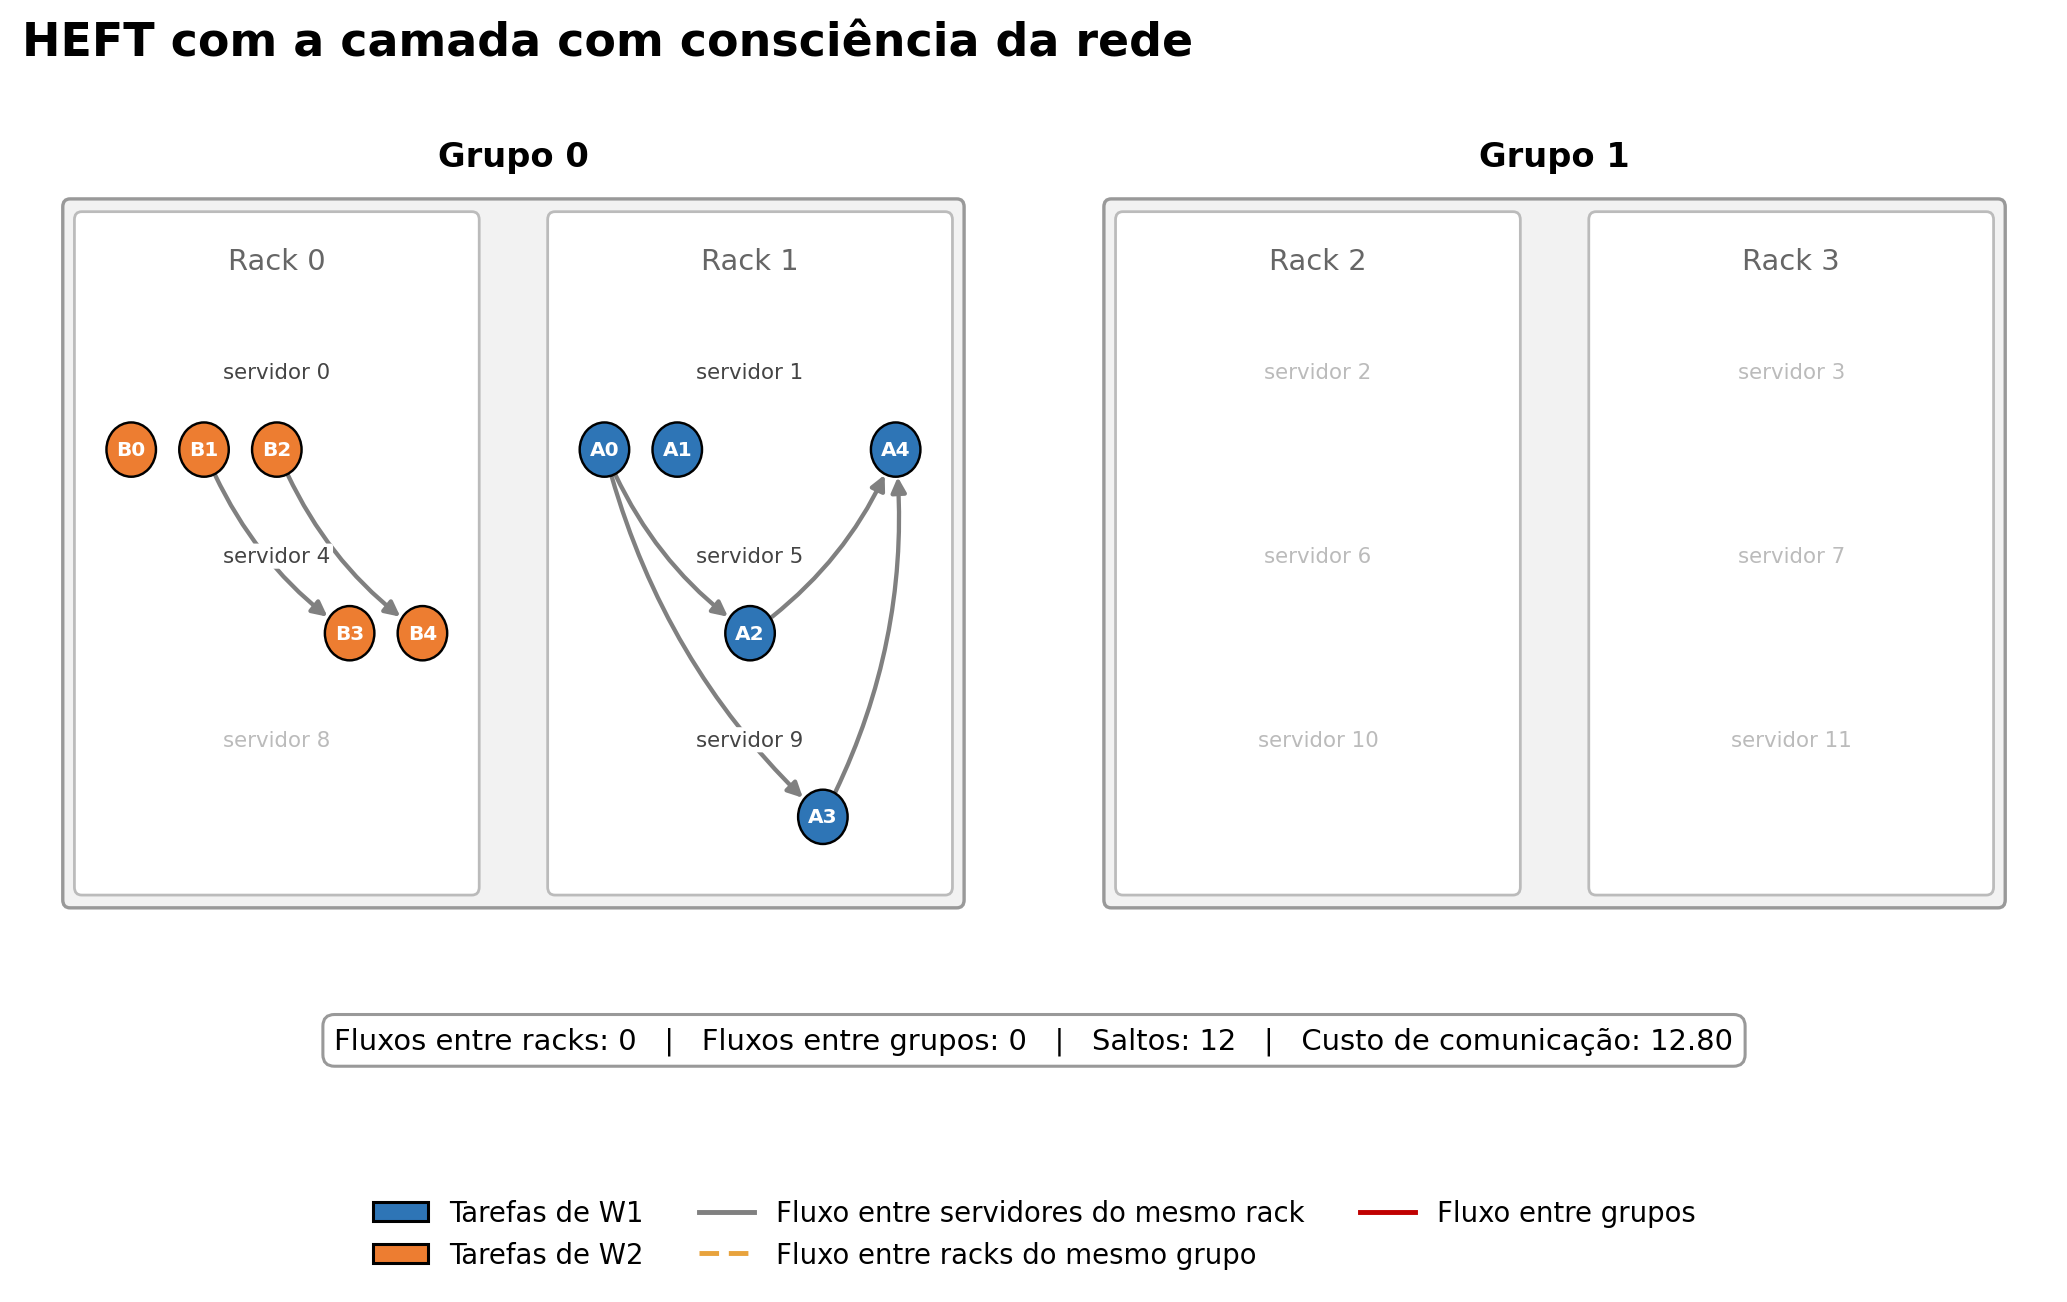
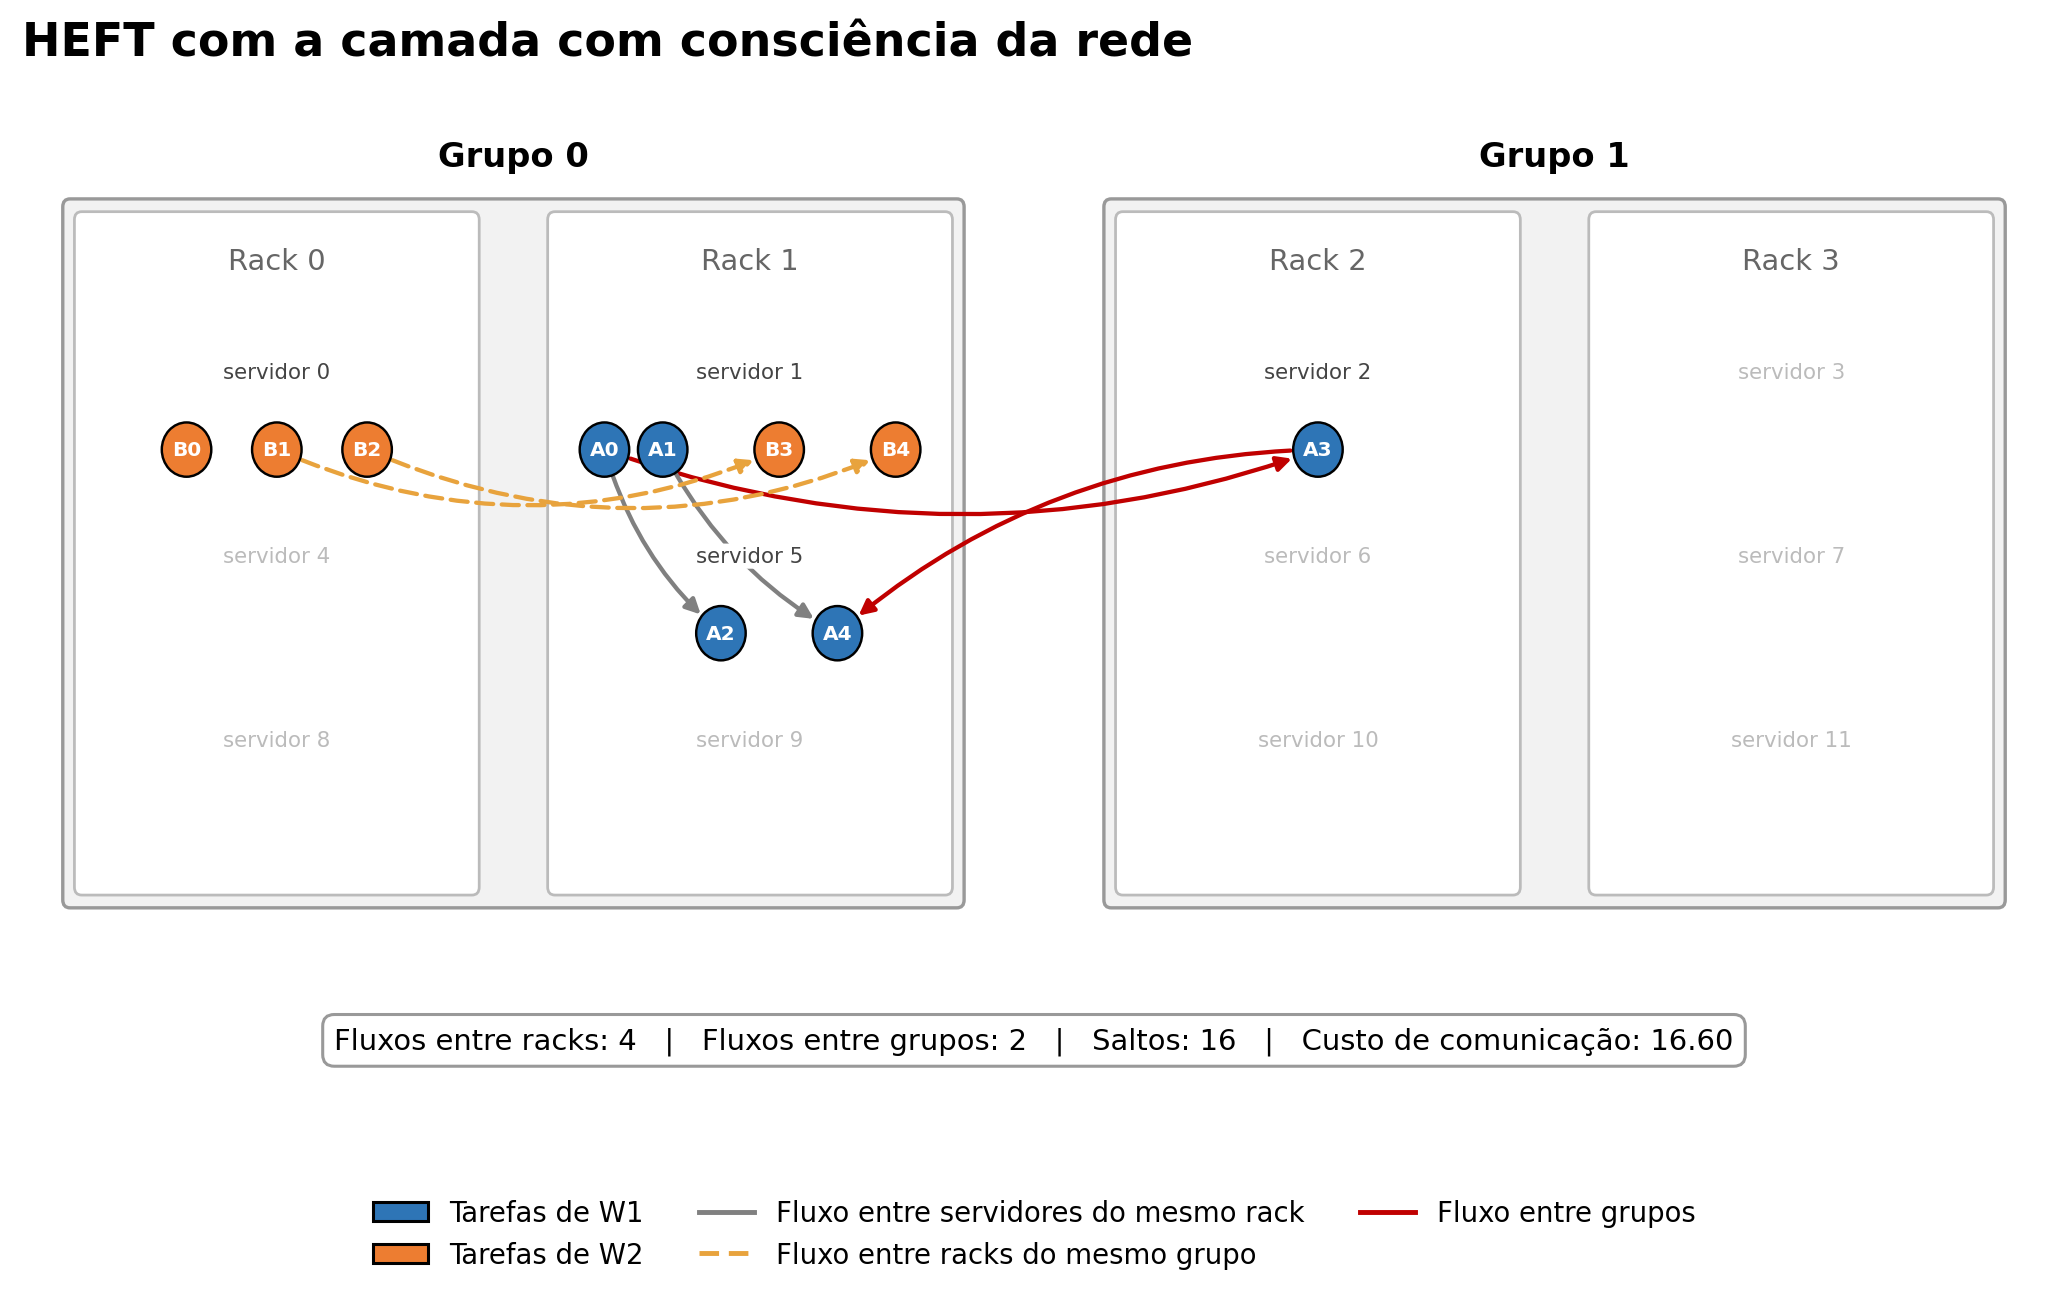
add

diff --git a/plot_placement_topology.py b/plot_placement_topology.py
@@ -176,20 +176,133 @@ def flow_classification(origem, destino):
 
 
 # ------------------------------------------------------------------
-# 5) Escalonamento por lista (ready-queue) genérico
+# 5) Pontuação network-aware = a fórmula REAL de
+#    scheduler_fifo/network_aware.py (choose_server_network_aware),
+#    não a versão simplificada da Equação 1 do artigo. Parâmetros do
+#    cenário "01_balanced" (scheduler_fifo/main.py -> SCENARIOS):
+#      network_weight = 1.0
+#      metric_weights = cross_server=cross_rack=cross_group=comm_cost=0.25
 #
-# A camada network-aware NUNCA aceita um servidor com EFT pior do que
-# o melhor EFT disponível para a tarefa (tolerância ~0): o custo de
-# rede só desempata entre candidatos igualmente bons em tempo de
-# término. Isso reproduz o comportamento medido nos experimentos reais
-# do projeto (o makespan não muda com a camada de rede) e evita que o
-# exemplo ilustrativo sacrifique paralelismo/tempo por localidade —
-# o que aconteceria se custo de rede fosse somado livremente ao EFT.
+#    combined_score = fifo_score + network_weight*(network_score + B_hist)
+#    - fifo_score: posição do servidor na ordenação numérica (proxy do
+#      "base_order" da política base), normalizada por len(SERVERS).
+#    - network_score: soma ponderada das 4 métricas de tráfego,
+#      normalizadas por min-max entre os candidatos (como
+#      normalizar_metricas_candidatos).
+#    - B_hist: mesma regra da Equação~3 do artigo, usando a EXECUÇÃO
+#      BASELINE deste exemplo como histórico da execução network-aware
+#      (mesmo protocolo do Algoritmo 1: primeiro roda a política base,
+#      depois a network-aware consome esse traço).
+# ------------------------------------------------------------------
+METRIC_WEIGHTS = {"cross_server": 0.25, "cross_rack": 0.25, "cross_group": 0.25, "comm_cost": 0.25}
+NETWORK_WEIGHT = 1.0
+
+FIFO_ORDER = sorted(SERVERS)
+FIFO_POS = {s: i for i, s in enumerate(FIFO_ORDER)}
+FIFO_SIZE = len(FIFO_ORDER)
+
+
+def compute_task_metrics(dag_id, t, candidate_server, placement):
+    cross_server = cross_rack = cross_group = 0
+    comm_cost = 0.0
+    for p in preds(dag_id, t):
+        p_server = placement[(dag_id, p)]
+        cs, cr, cg = flow_classification(p_server, candidate_server)
+        cross_server += int(cs)
+        cross_rack += int(cr)
+        cross_group += int(cg)
+        comm_cost += hops_between(p_server, candidate_server) * edge_bytes(dag_id, p, t)
+    return {
+        "cross_server_flows": cross_server,
+        "cross_rack_flows": cross_rack,
+        "cross_group_flows": cross_group,
+        "estimated_comm_cost": comm_cost,
+    }
+
+
+def normalize_candidate_metrics(metrics_by_server):
+    fields = ["cross_server_flows", "cross_rack_flows", "cross_group_flows", "estimated_comm_cost"]
+    normalized = {s: {} for s in metrics_by_server}
+    for field in fields:
+        values = [metrics_by_server[s][field] for s in metrics_by_server]
+        lo, hi = min(values), max(values)
+        for s in metrics_by_server:
+            raw = metrics_by_server[s][field]
+            normalized[s][field] = 0.0 if hi == lo else (raw - lo) / (hi - lo)
+    return normalized
+
+
+def network_score(norm):
+    return (
+        norm["cross_server_flows"] * METRIC_WEIGHTS["cross_server"]
+        + norm["cross_rack_flows"] * METRIC_WEIGHTS["cross_rack"]
+        + norm["cross_group_flows"] * METRIC_WEIGHTS["cross_group"]
+        + norm["estimated_comm_cost"] * METRIC_WEIGHTS["comm_cost"]
+    )
+
+
+def build_history_from_execution(reference_placement):
+    """Histórico consumido pela execução network-aware, construído a
+    partir da execução baseline deste mesmo exemplo (Equação 3 / B_hist)."""
+    history = {}
+    for dag_id, t in ALL_TASKS:
+        p_list = preds(dag_id, t)
+        if not p_list:
+            continue
+        server = reference_placement[(dag_id, t)]
+        cross_rack = cross_group = 0
+        for p in p_list:
+            p_server = reference_placement[(dag_id, p)]
+            _, cr, cg = flow_classification(p_server, server)
+            cross_rack += int(cr)
+            cross_group += int(cg)
+        history[(dag_id, t)] = {
+            "predecessor_count": len(p_list),
+            "best_rack": RACK_OF[server],
+            "best_group": GROUP_OF[server],
+            "prev_cross_rack_flows": cross_rack,
+            "prev_cross_group_flows": cross_group,
+        }
+    return history
+
+
+def history_bonus_for(dag_id, t, candidate_server, history):
+    info = history.get((dag_id, t)) if history else None
+    if not info or info["predecessor_count"] == 0:
+        return 0.0
+
+    bonus = 0.0
+    cand_rack = RACK_OF[candidate_server]
+    cand_group = GROUP_OF[candidate_server]
+
+    if cand_group == info["best_group"]:
+        bonus -= 0.20
+        if cand_rack == info["best_rack"]:
+            bonus -= 0.10
+
+    if (info["prev_cross_rack_flows"] == 0 and info["prev_cross_group_flows"] == 0
+            and cand_group != info["best_group"]):
+        bonus += 0.25
+
+    return bonus
+
+
+# ------------------------------------------------------------------
+# 6) Escalonamento por lista (ready-queue) genérico
+#
+# A camada network-aware só escolhe entre os servidores que dão o
+# melhor EFT possível para a tarefa (tolerância ~0). O código real
+# (discrete-event, scheduler_fifo/network_aware.py) só decide entre
+# servidores JÁ ociosos no instante da decisão, então a rede nunca
+# "compra" tempo de espera; como este exemplo faz uma busca completa
+# de EFT (não é um simulador de eventos discretos), essa restrição
+# reproduz a mesma garantia por outro caminho — sem ela, o exemplo
+# poderia sacrificar paralelismo/tempo por localidade.
 # ------------------------------------------------------------------
 EFT_TOLERANCE = 1e-9
 
 
-def schedule(network_aware: bool):
+def schedule(network_aware: bool, history: dict | None = None):
     done = set()
     finish = {}
     placement = {}
@@ -216,31 +329,36 @@ def schedule(network_aware: bool):
         options = []
         for s in SERVERS:
             data_ready = 0.0
-            net_cost = 0.0
             for p in preds(dag_id, t):
                 p_server = placement[(dag_id, p)]
                 p_finish = finish[(dag_id, p)]
-                if p_server == s:
-                    transfer = 0.0
-                else:
-                    transfer = edge_bytes(dag_id, p, t) / BW
+                transfer = 0.0 if p_server == s else edge_bytes(dag_id, p, t) / BW
                 data_ready = max(data_ready, p_finish + transfer)
-
-                if p_server != s:
-                    hops = hops_between(p_server, s)
-                    net_cost += hops * edge_bytes(dag_id, p, t)
 
             start = max(server_free[s], data_ready)
             eft = start + duration(dag_id, t)
-            options.append((eft, start, net_cost, s))
+            options.append((eft, start, s))
 
         best_eft = min(o[0] for o in options)
         candidates = [o for o in options if o[0] <= best_eft + EFT_TOLERANCE]
 
         if network_aware:
-            eft, start, net_cost, s = min(candidates, key=lambda o: (o[2], o[3]))
+            metrics_by_server = {
+                o[2]: compute_task_metrics(dag_id, t, o[2], placement) for o in candidates
+            }
+            normalized = normalize_candidate_metrics(metrics_by_server)
+
+            def combined_score(o):
+                srv = o[2]
+                fifo_score = FIFO_POS[srv] / FIFO_SIZE
+                net_score = network_score(normalized[srv])
+                hist_bonus = history_bonus_for(dag_id, t, srv, history)
+                return fifo_score + NETWORK_WEIGHT * (net_score + hist_bonus)
+
+            eft, start, s = min(candidates, key=lambda o: (combined_score(o), o[2]))
         else:
-            eft, start, net_cost, s = min(candidates, key=lambda o: o[3])
+            eft, start, s = min(candidates, key=lambda o: o[2])
+
         server_free[s] = eft
         finish[(dag_id, t)] = eft
         placement[(dag_id, t)] = s
@@ -452,7 +570,8 @@ def save_single_scenario(placement, decisions, metrics, title, filename):
 
 def main():
     placement_base, decisions_base = schedule(network_aware=False)
-    placement_na, decisions_na = schedule(network_aware=True)
+    history = build_history_from_execution(placement_base)
+    placement_na, decisions_na = schedule(network_aware=True, history=history)
 
     metrics_base = compute_metrics(placement_base)
     metrics_na = compute_metrics(placement_na)
